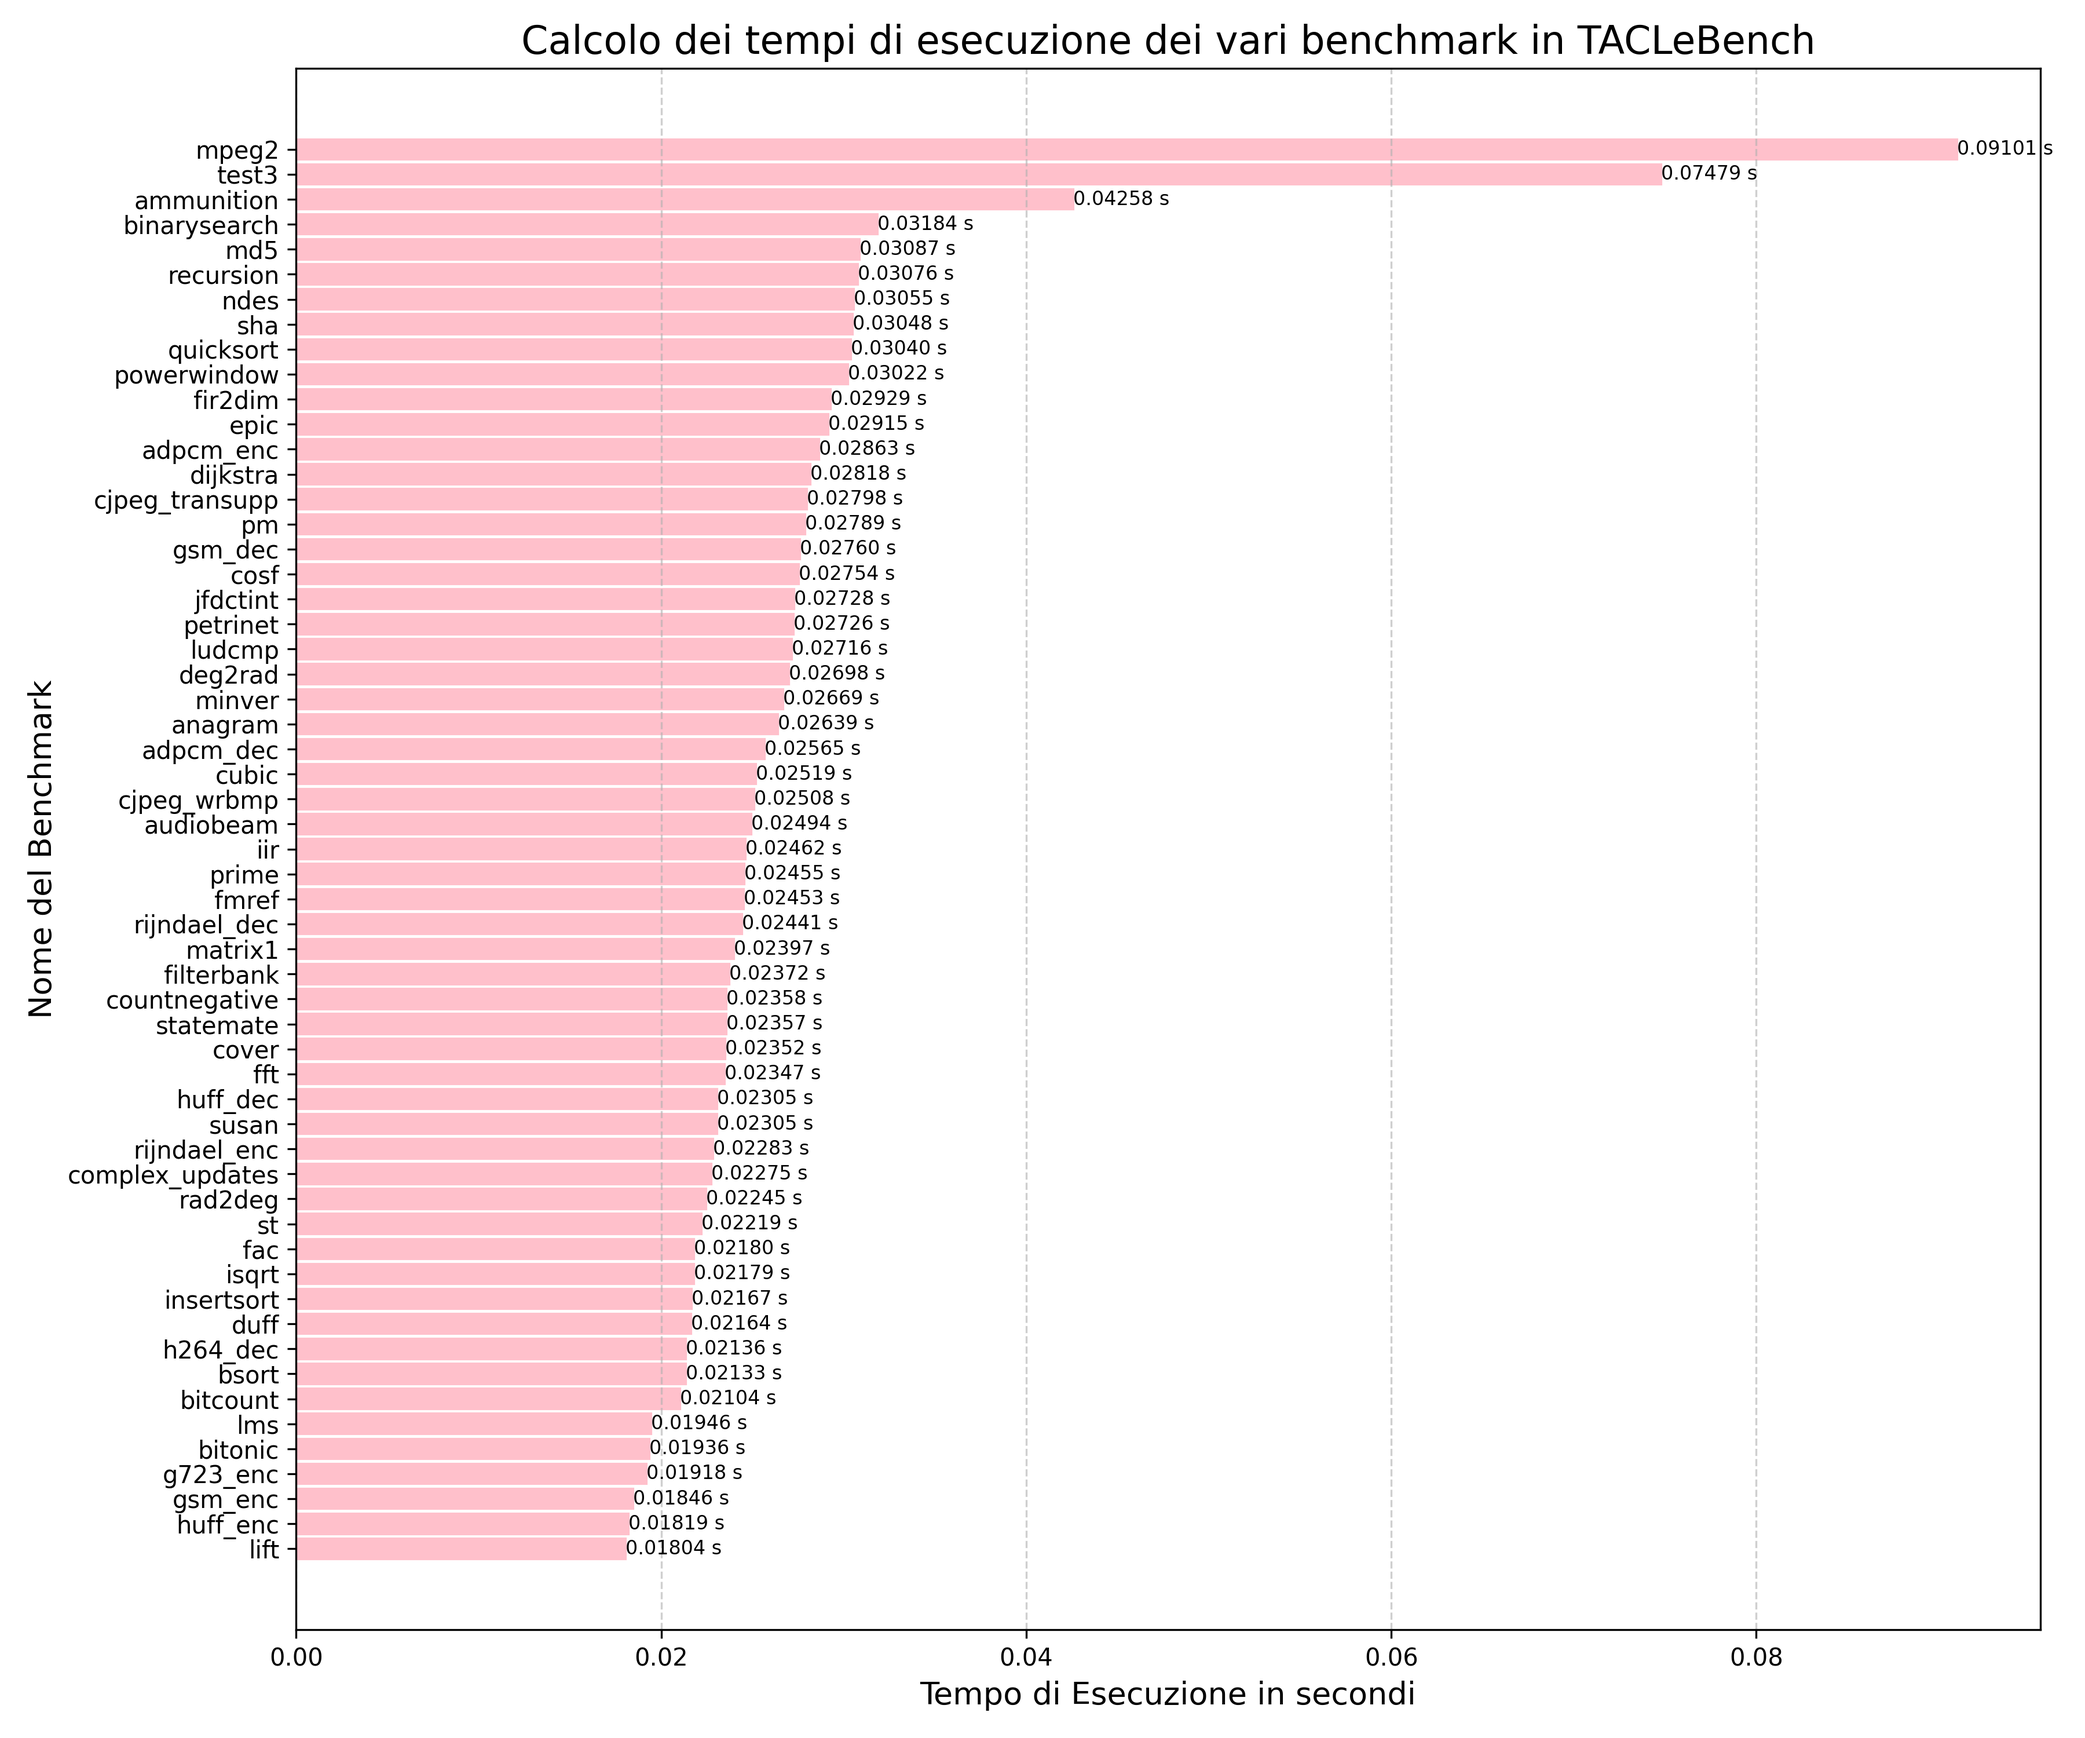
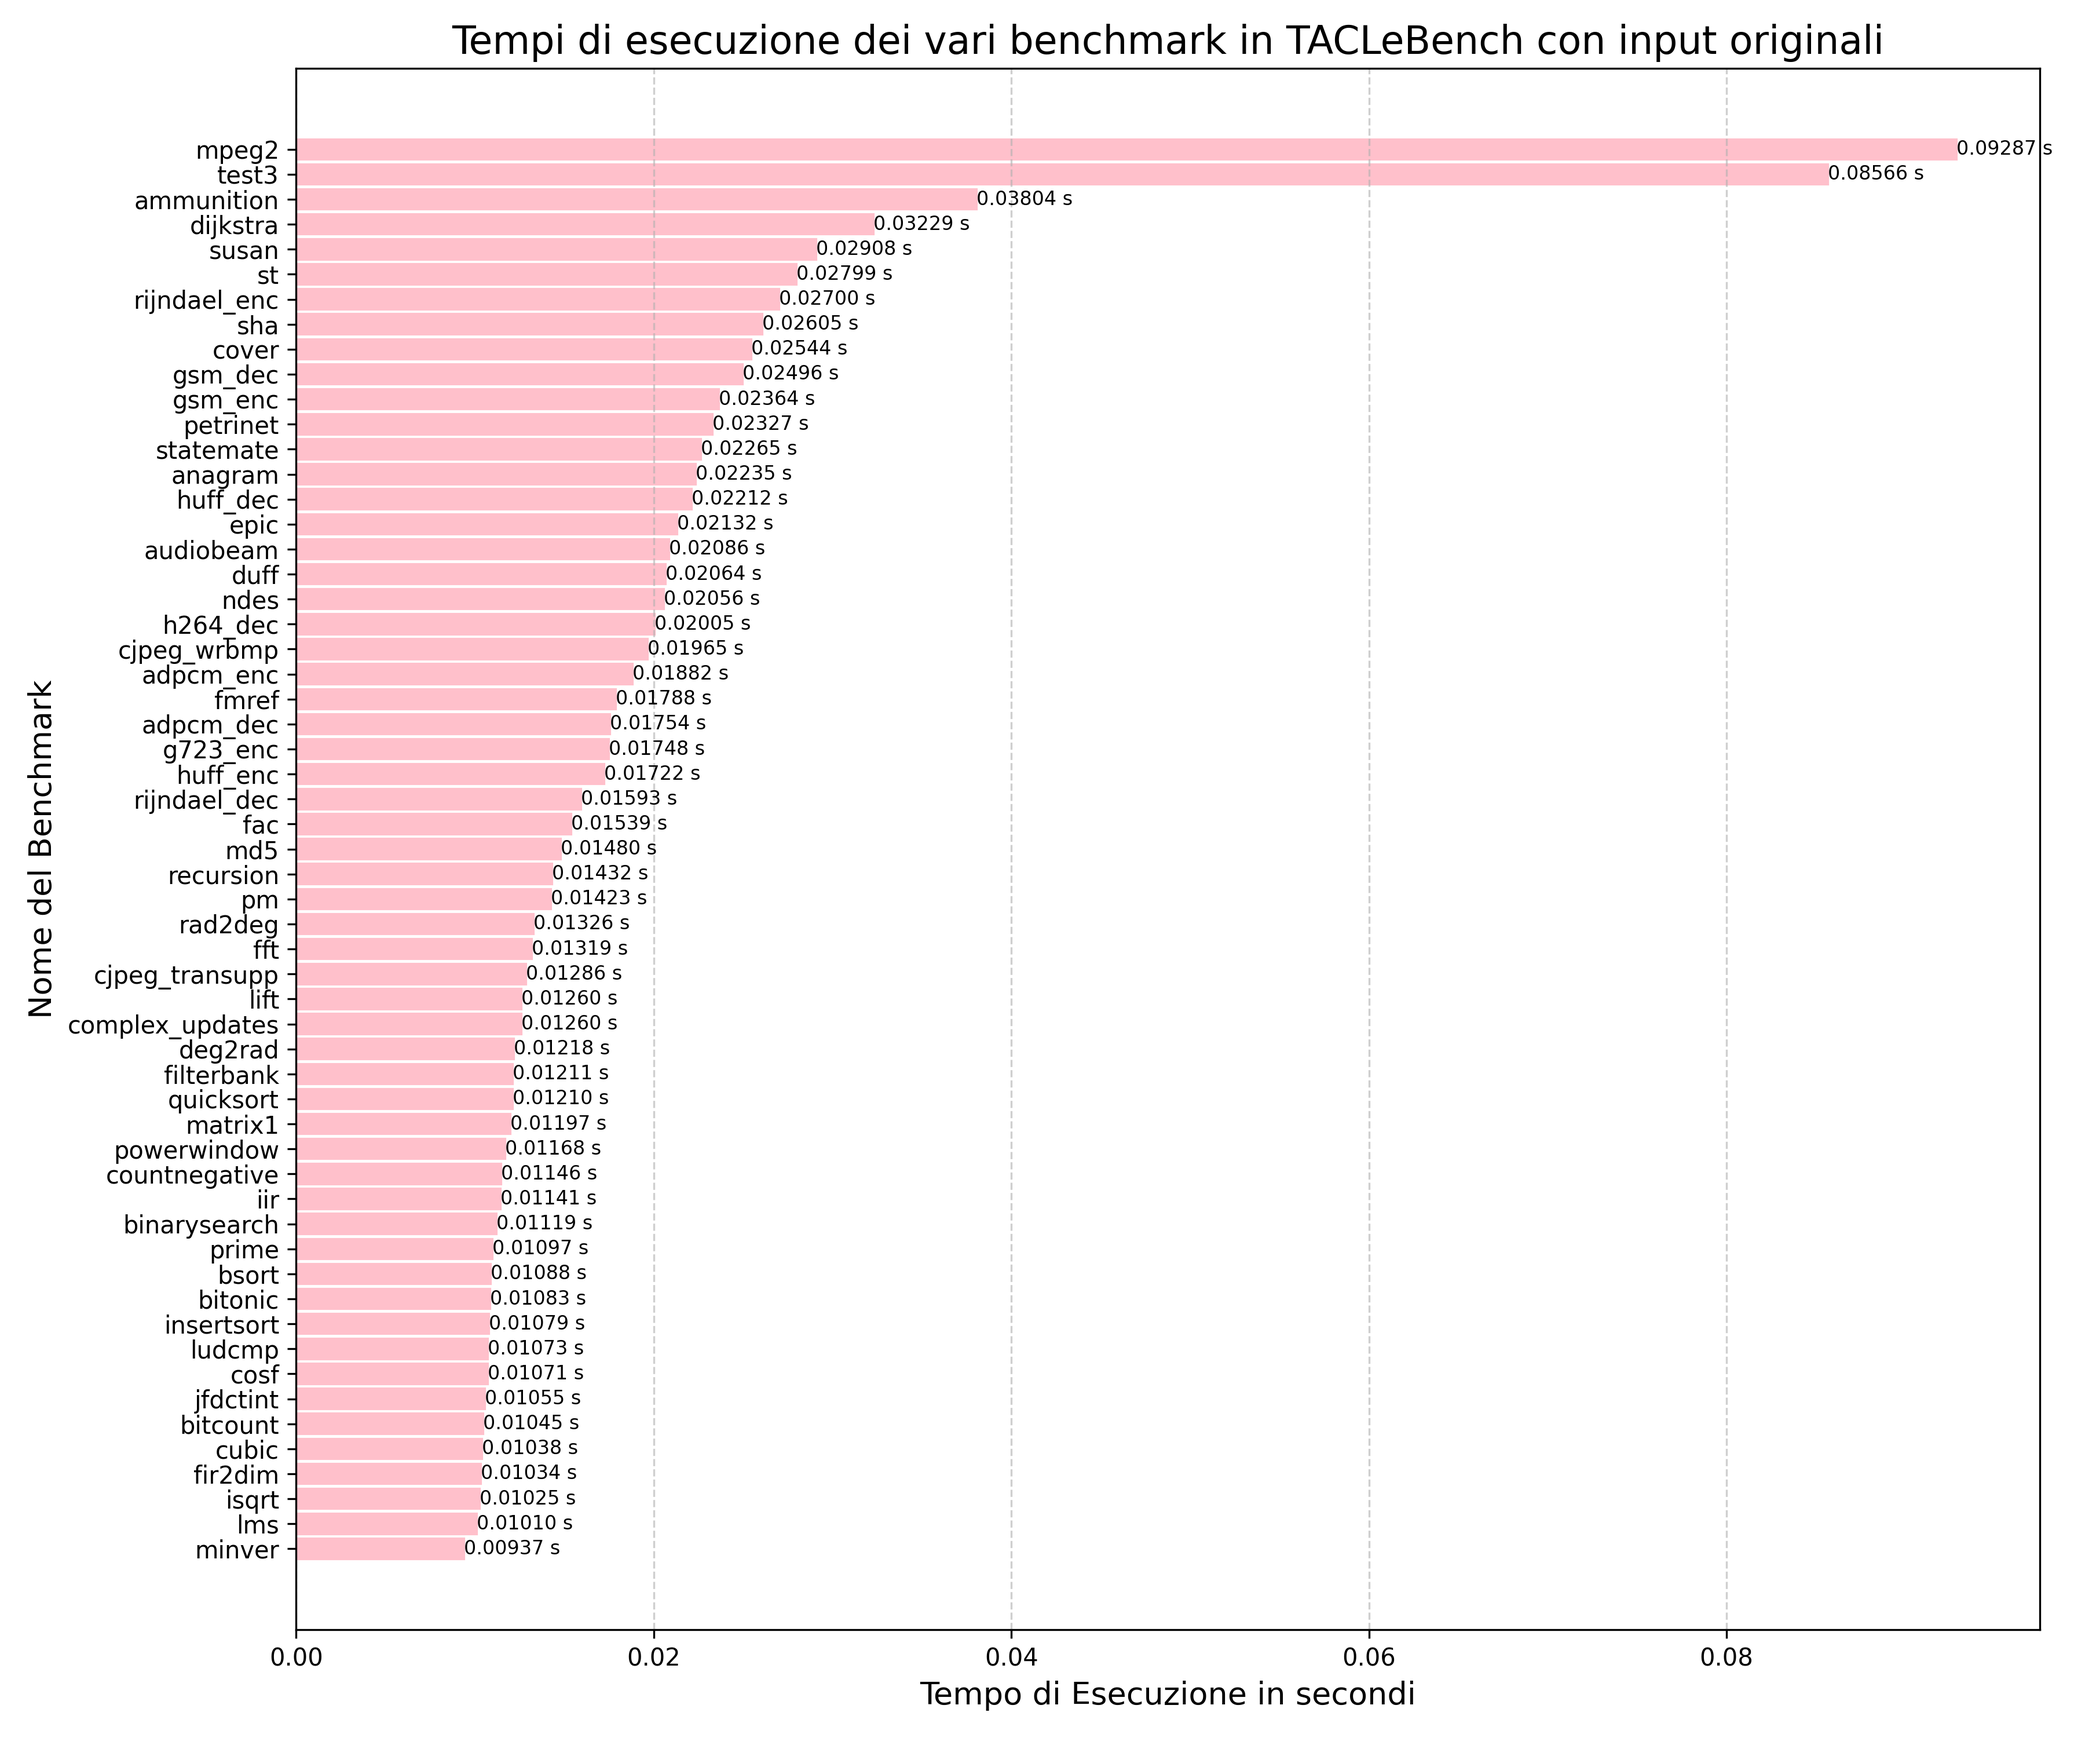
Small refactor

diff --git a/Con input modificati/calcolo_tempi_esecuzione.py b/Con input modificati/calcolo_tempi_esecuzione.py
@@ -15,7 +15,7 @@ def run_all_benchmarks(base_path):
     # si estrae il percorso corretto (current working directory)
     if not os.path.exists(base_path):
         print(f"ERROR: la cartella '{base_path}' non esiste")
-        print(f"Il percorso attuale in cui ci si trova: {os.getcwd()}")
+        print(f"Percorso attuale in cui ci si trova: {os.getcwd()}")
         return []
 
     # Inzio dell'analisi nella cartella base_path
@@ -113,7 +113,7 @@ def plot_barchart(name_csv_file):
 
     plt.xlabel('Tempo di Esecuzione in secondi', fontsize=13)
     plt.ylabel('Nome del Benchmark', fontsize=13)
-    plt.title('Calcolo dei tempi di esecuzione dei vari benchmark di TACLeBench con input modificati', fontsize=16)
+    plt.title('Tempi di esecuzione dei vari benchmark di TACLeBench con input modificati', fontsize=16)
     
     # Si aggiunge una griglia verticale
     plt.grid(axis='x', linestyle='--', alpha=0.6)

diff --git a/Con input di TACLeBench/calcolo_tempi_esecuzione.py b/Con input di TACLeBench/calcolo_tempi_esecuzione.py
@@ -15,7 +15,7 @@ def run_all_benchmarks(base_path):
     # si estrae il percorso corretto (current working directory)
     if not os.path.exists(base_path):
         print(f"ERROR: la cartella '{base_path}' non esiste")
-        print(f"Il percorso attuale in cui ci si trova: {os.getcwd()}")
+        print(f"Percorso attuale in cui ci si trova: {os.getcwd()}")
         return []
 
     # Inzio dell'analisi nella cartella base_path
@@ -113,7 +113,7 @@ def plot_barchart(name_csv_file):
 
     plt.xlabel('Tempo di Esecuzione in secondi', fontsize=13)
     plt.ylabel('Nome del Benchmark', fontsize=13)
-    plt.title('Calcolo dei tempi di esecuzione dei vari benchmark in TACLeBench', fontsize=16)
+    plt.title('Tempi di esecuzione dei vari benchmark in TACLeBench con input originali', fontsize=16)
     
     # Si aggiunge una griglia verticale
     plt.grid(axis='x', linestyle='--', alpha=0.6)
